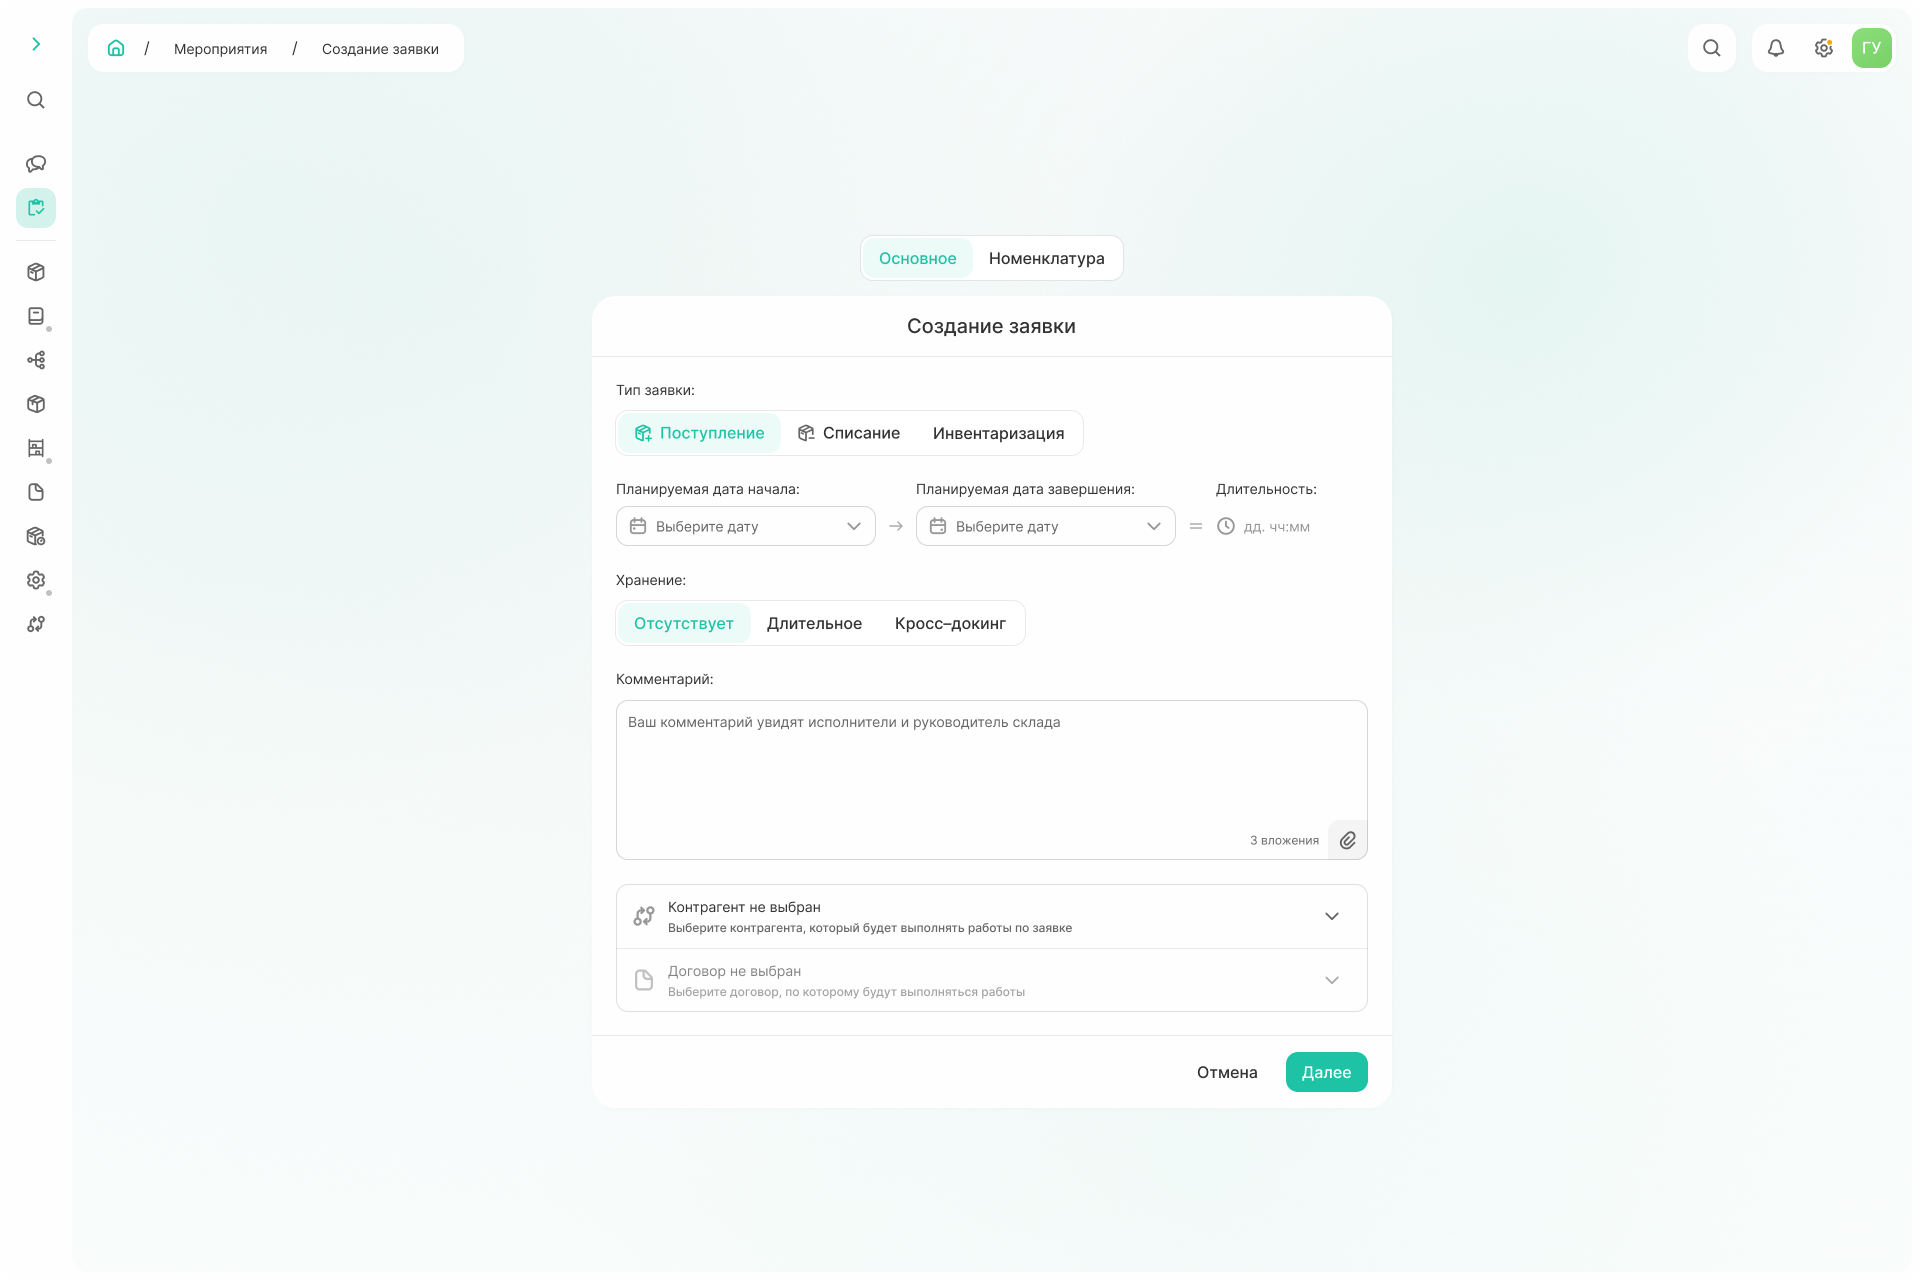
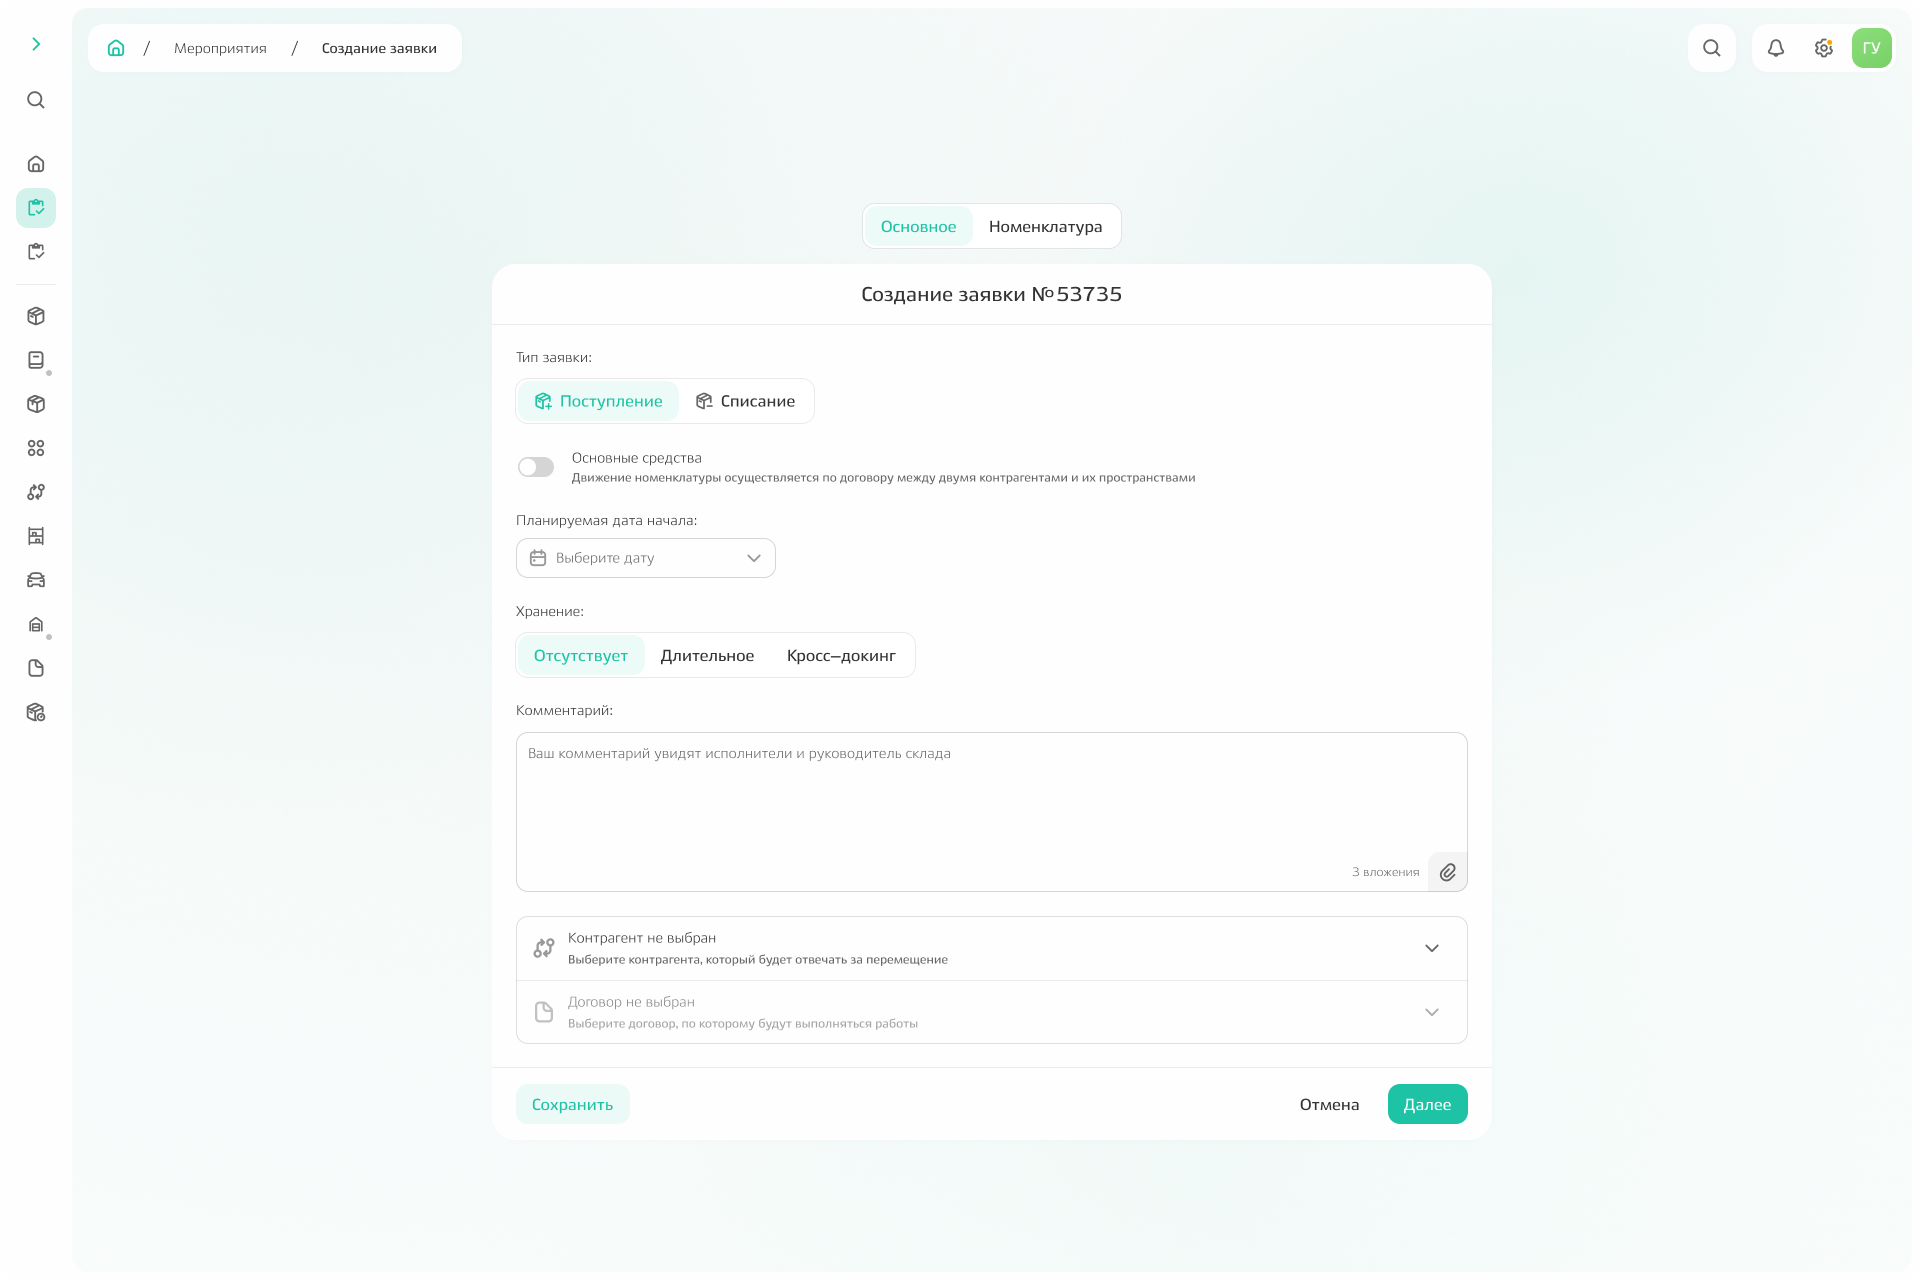
task second part

diff --git a/docs/ru/how_to_task.md b/docs/ru/how_to_task.md
@@ -6,7 +6,7 @@
 
 {% endnote %}
 
-С заявкой работают разные контрагенты:
+**С заявкой работают разные контрагенты:**
 
 {% list tabs radio %}
 
@@ -24,7 +24,7 @@
 
 {% endlist %}
 
-Также у заявки есть тип: «поступление», «списание» или «инвентаризация». 
+**Также у заявки есть тип:** поступление или списание. 
 В зависимости от этого типа отличается список событий и информация, указываемая при создании заявки.
 
 ## Заполнение основной информации
@@ -38,17 +38,19 @@
 - Поступление
   
   **На вкладке «Основное» указываются**
-    - планируемые даты начала и завершения всех работ по заявке,
+    - тип заявки: поступление,
+    - планируемая дата начала работ по заявке,
     - хранение для номенклатуры: отсутствует, длительное, [кросс-докинг](*key_storage),
     - комментарий: виден для исполнителей, при необходимости можно прикрепить файлы для конкретизации, 
     - контрагент, который выполняет работу по заявке,
-    - договор, в рамках которого выполняется работа на складе.
+    - договор, в рамках которого выполняется работа по заявке.
 
     ![_screen_type_task](_images/_screen_type_task.png){.center width=1200}
 
-    После выбора договора появляются и предзаполняются поля «Поставщик» и «Получатель». Вручную можно указать пространство, откуда товар будет отгружен (для поля поставщика) и указать пространство, куда товар будет выгружен (поле получателя). 
+    **После выбора договора появляются и предзаполняются поля «Поставщик» и «Получатель».** 
+    Можно указать пространство, откуда товар будет отгружен (для поля поставщика) и указать пространство, куда товар будет выгружен (поле получателя). 
 
-    При наличии информации также заполняется поле «Перевозчик». 
+    **При наличии информации также заполняется поле «Перевозчик».** 
     Можно выполнить двумя способами:
     1. Выбирается контрагент, ответственный за перевозку. После чего становятся доступными для заполнения поля, где указывается марка, страна и номер машины, а также серия и номер паспорта.
     2. По команде «Добавить» можно создать пользовательский контакт: в этом случае для перевозчика указывается ФИО, марка и номера машины, однако, данные по этому перевозчику сохранятся только для этой заявки, в следующих раз надо будет вводить информацию заново.        
@@ -57,7 +59,16 @@
 
     {% note tip %}
 
-    Если по заявке нет информации о перевозчике, пространствах поставщика и получателя, то данные поля можно не заполнять. 
+    При помощи заявки **можно фиксировать поступление основных средств.** 
+    Для этого необходимо переключить свитчер «Основные средства» в значение TRUE (свитчер будет зеленым), а после указать 
+    - тип заявки: поступление,
+    - планируемую дату начала и завершения работ по заявке, 
+    - тип хранения, 
+    - оставить комментарии при необходимости,
+    - выбрать контрагента и закрепленное за ним пространство, куда основные средства будут зачислены. 
+    **Договор выбирать не нужно.**
+
+    ![_screen_task_task](_images/_screen_task_OS.png){.center width=1200}
 
     {% endnote %}
 
@@ -67,7 +78,7 @@
 
     Когда вся номенклатура добавлена, нажмите команду «Создать».
 
-    ![_screen_task_list_nomenc](_images/_screen_task_list_nomenc.png){.center width=600}
+    ![_screen_task_list_nomenc](_images/_screen_task_list_nomenc.png){.center width=1200}
 
     В появившемся окне проверьте указанную информацию и по команде «Подтвердить» отправьте заявку в работу на склад. 
 
@@ -76,17 +87,18 @@
 - Списание
 
     **На вкладке «Основное» указываются**
-    - планируемые даты начала и завершения,
-    - причина списания номенклатуры,
-    - комментарии: виден для исполнителей, при необходимости можно прикрепить файлы для конкретизации, 
+    - тип заявки: списание,
+    - планируемая дата начала работ по заявке,
+    - причина списания,
+    - комментарий: виден для исполнителей, при необходимости можно прикрепить файлы для конкретизации, 
     - контрагент, который выполняет работу по заявке,
-    - договор, в рамках которого выполняется работа на складе.
+    - договор, в рамках которого выполняется работа по заявке.
 
     ![_screen_type_task_minus](_images/_screen_type_task_minus.png){.center width=1200}
 
-    После выбора договора появляются и предзаполняются поля «Поставщик» и «Получатель». Вручную можно указать пространство, откуда товар будет отгружен (для поля поставщика) и указать пространство, куда товар будет выгружен (поле получателя). 
+    **После выбора договора появляются и предзаполняются поля «Поставщик» и «Получатель».** Вручную можно указать пространство, откуда товар будет отгружен (для поля поставщика) и указать пространство, куда товар будет выгружен (поле получателя). 
 
-    При наличии информации заполняется поле «Перевозчик». 
+    **При наличии информации заполняется поле «Перевозчик».**
     Есть два способа:
     1. Выбирается контрагент, ответственный за перевозку. После чего становятся доступными для заполнения поля, где указывается марка, страна и номер машины, а также серия и номер паспорта.
     2. По команде «Добавить» можно создать пользовательский контакт: в этом случае для перевозчика указывается ФИО, марка и номера машины, однако, данные по этому перевозчику сохранятся только для этой заявки, в следующих раз надо будет вводить информацию заново.        
@@ -95,11 +107,20 @@
 
     {% note tip %}
 
-    Если по заявке нет информации о перевозчике, пространствах поставщика и получателя, то данные поля можно не заполнять.  
+    При помощи заявки **можно фиксировать поступление основных средств.** 
+    Для этого необходимо переключить свитчер «Основные средства» в значение TRUE (свитчер будет зеленым), а после указать 
+    - тип заявки: списание,
+    - планируемую дату начала и завершения работ по заявке, 
+    - причину списания, 
+    - оставить комментарии при необходимости,
+    - выбрать контрагента и закрепленное за ним пространство, откуда основные средства будут списаны. 
+    **Договор выбирать не нужно.**
+
+    ![_screen_task_task](_images/_screen_task_OS_minus.png){.center width=1200}
 
     {% endnote %}
 
-    **На вкладке «Номенклатура»** введите в поиске наименование, артикул или SAP-код необходимой номенклатуры и по команде «Добавить» откройте карточку номенклатуры. Заполните все поля и по команде «Сохранить» добавьте номенклатуру в заявку.  
+    **На вкладке «Номенклатура»** введите в поиске наименование, артикул или SAP-код необходимой номенклатуры и по команде «Добавить» откройте карточку номенклатуры. Для заявки на списание указывается только количество номенклатуры, которое будет списано. После заполнения добавьте номенклатуру в заявку по команде «Сохранить».  
    
     ![_screen_task_nomenc](_images/_screen_task_nomenc.png){.center width=1200}
 
@@ -110,15 +131,6 @@
     В появившемся окне проверьте указанную информацию и по команде «Подтвердить» отправьте заявку в работу на склад. 
 
     ![_screen_doc_spisanie](_images/_screen_doc_spisanie.png){.center width=1200}
-
-
-- Инвентаризация
-
-    {% note alert %}
-
-    Функционал в разработке.  
-
-    {% endnote %}
 
 {% endlist %}
 
